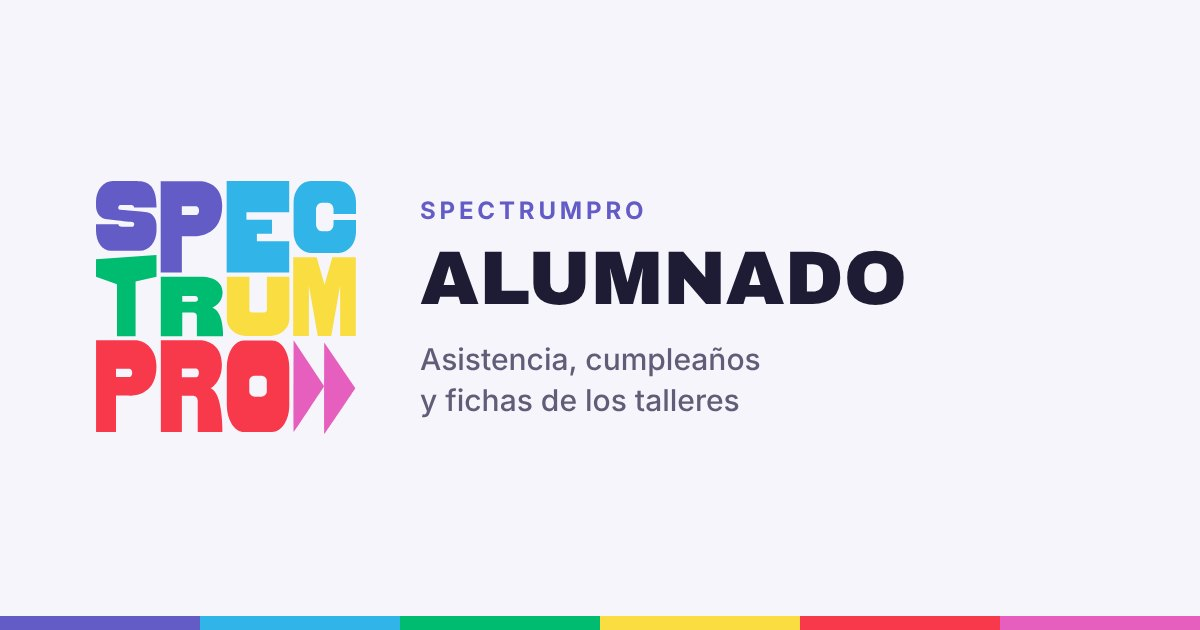
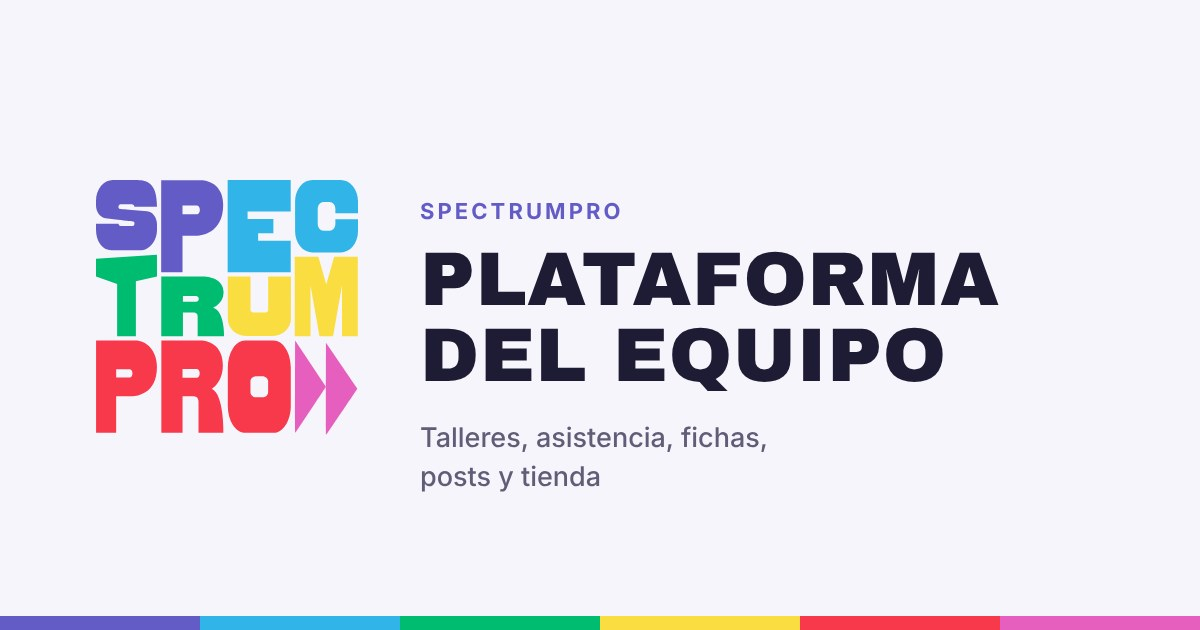
Renombrar «Gestión de alumnado» a «Plataforma del equipo»
La plataforma ya no es solo de alumnado: incluye talleres, cumpleaños,
posts y tienda. Se cambia en el menú, el título, el manifiesto, el
README y la imagen de vista previa al compartir.

Claude-Session: https://claude.ai/code/session_01XEKfgfEh6MXorD94xe5JWL

diff --git a/index.html b/index.html
@@ -4,29 +4,29 @@
 <meta charset="utf-8">
 <meta name="viewport" content="width=device-width, initial-scale=1, viewport-fit=cover">
 <meta name="theme-color" content="#635CC7">
-<meta name="description" content="Plataforma interna de SpectrumPro: asistencia, cumpleaños y fichas del alumnado.">
+<meta name="description" content="Plataforma del equipo de SpectrumPro: talleres, asistencia, fichas, cumpleaños, posts y tienda.">
 <link rel="canonical" href="https://spectrumpro.vercel.app/">
 <meta property="og:type" content="website">
 <meta property="og:site_name" content="SpectrumPro">
 <meta property="og:locale" content="es_CL">
 <meta property="og:url" content="https://spectrumpro.vercel.app/">
-<meta property="og:title" content="SpectrumPro Alumnado">
-<meta property="og:description" content="Plataforma interna del equipo de SpectrumPro: asistencia, cumpleaños y fichas de los talleres.">
+<meta property="og:title" content="SpectrumPro · Plataforma del equipo">
+<meta property="og:description" content="Plataforma interna del equipo de SpectrumPro: talleres, asistencia, fichas, cumpleaños, posts y tienda.">
 <meta property="og:image" content="https://spectrumpro.vercel.app/assets/og/index.jpg">
 <meta property="og:image:secure_url" content="https://spectrumpro.vercel.app/assets/og/index.jpg">
 <meta property="og:image:type" content="image/jpeg">
 <meta property="og:image:width" content="1200">
 <meta property="og:image:height" content="630">
-<meta property="og:image:alt" content="SpectrumPro Alumnado: asistencia, cumpleaños y fichas de los talleres.">
+<meta property="og:image:alt" content="SpectrumPro · Plataforma del equipo: talleres, asistencia, posts y tienda.">
 <meta name="twitter:card" content="summary_large_image">
-<meta name="twitter:title" content="SpectrumPro Alumnado">
-<meta name="twitter:description" content="Plataforma interna del equipo de SpectrumPro: asistencia, cumpleaños y fichas de los talleres.">
+<meta name="twitter:title" content="SpectrumPro · Plataforma del equipo">
+<meta name="twitter:description" content="Plataforma interna del equipo de SpectrumPro: talleres, asistencia, fichas, cumpleaños, posts y tienda.">
 <meta name="twitter:image" content="https://spectrumpro.vercel.app/assets/og/index.jpg">
-<meta name="twitter:image:alt" content="SpectrumPro Alumnado: asistencia, cumpleaños y fichas de los talleres.">
+<meta name="twitter:image:alt" content="SpectrumPro · Plataforma del equipo: talleres, asistencia, posts y tienda.">
 <meta name="application-name" content="SpectrumPro">
 <meta name="apple-mobile-web-app-title" content="SpectrumPro">
 <meta name="format-detection" content="telephone=no">
-<title>SpectrumPro Alumnado</title>
+<title>SpectrumPro · Plataforma del equipo</title>
 <link rel="icon" href="assets/logo.svg" type="image/svg+xml">
 <link rel="apple-touch-icon" href="assets/icono-192.png">
 <link rel="manifest" href="manifest.webmanifest">
@@ -55,7 +55,7 @@
       <img src="assets/logo.svg" alt="" width="88" height="86">
       <p class="acceso-nombre">SpectrumPro</p>
       <p class="acceso-lema">Transformando la perspectiva del mundo</p>
-      <p class="acceso-desc">Plataforma interna del equipo: asistencia a talleres, cumpleaños y fichas del alumnado.</p>
+      <p class="acceso-desc">Plataforma interna del equipo: asistencia a talleres, fichas del alumnado, cumpleaños, posts para Instagram y tienda.</p>
       <address class="acceso-contacto">
         <span>Doctor Roberto del Río 1137, Providencia</span>
         <a href="https://wa.me/56996389673" target="_blank" rel="noopener">WhatsApp +56 9 9638 9673</a>
@@ -121,7 +121,7 @@
     <div class="lateral-cab">
       <a class="marca" href="#panel" aria-label="SpectrumPro, ir al panel">
         <img src="assets/logo.svg" alt="" width="40" height="39">
-        <span class="marca-texto"><span class="marca-nombre">SpectrumPro</span><span class="marca-sub">Gestión de alumnado</span></span>
+        <span class="marca-texto"><span class="marca-nombre">SpectrumPro</span><span class="marca-sub">Plataforma del equipo</span></span>
       </a>
       <button type="button" id="plegar" class="icono-btn plegar" aria-expanded="true" aria-label="Plegar menú" title="Plegar menú">
         <svg viewBox="0 0 24 24" aria-hidden="true"><path d="M15.4 7.4 14 6l-6 6 6 6 1.4-1.4L10.8 12z"/></svg>

diff --git a/sw.js b/sw.js
@@ -3,7 +3,7 @@
 // - Archivos propios (css, js, imágenes): también primero red; sin conexión, la copia guardada.
 //   (Antes se servía la copia guardada y, tras publicar, se mezclaba HTML nuevo con JS viejo.)
 // - Supabase y CDNs: pasan directo, nunca se guardan (son datos privados o con su propia caché).
-const VERSION = 'spectrumpro-v7';
+const VERSION = 'spectrumpro-v8';
 const BASE = ['./', './index.html', './styles.css', './config.js', './js/datos.js', './js/app.js', './js/posts.js', './manifest.webmanifest', './assets/logo.svg', './assets/icono-192.png'];
 
 self.addEventListener('install', e => {

diff --git a/js/app.js b/js/app.js
@@ -1,5 +1,5 @@
 'use strict';
-/* SpectrumPro · Gestión de alumnado
+/* SpectrumPro · Plataforma del equipo
    Interfaz. Los datos llegan de window.SPDatos (Supabase o demostración). */
 
 const D = window.SPDatos;

diff --git a/README.md b/README.md
@@ -1,4 +1,4 @@
-# SpectrumPro · Gestión de alumnado
+# SpectrumPro · Plataforma del equipo
 
 Plataforma interna de [SpectrumPro](https://spectrumpro.cl/) para registrar la **asistencia** a los talleres, ver los **cumpleaños** y mantener la **ficha** de cada joven.
 
